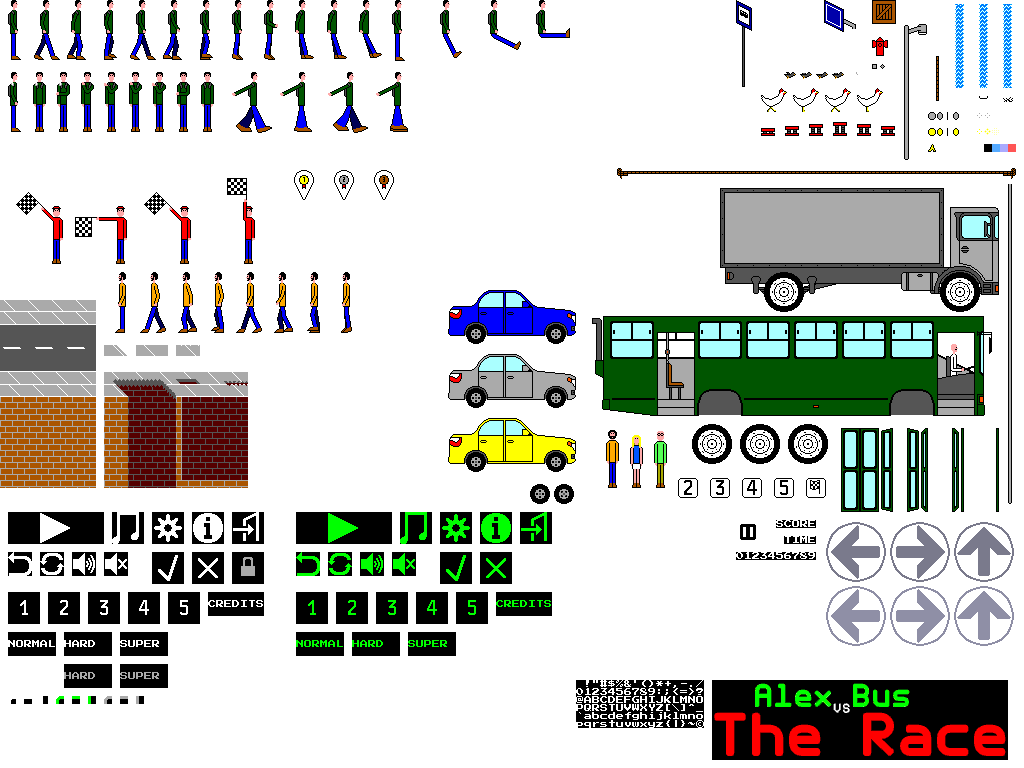
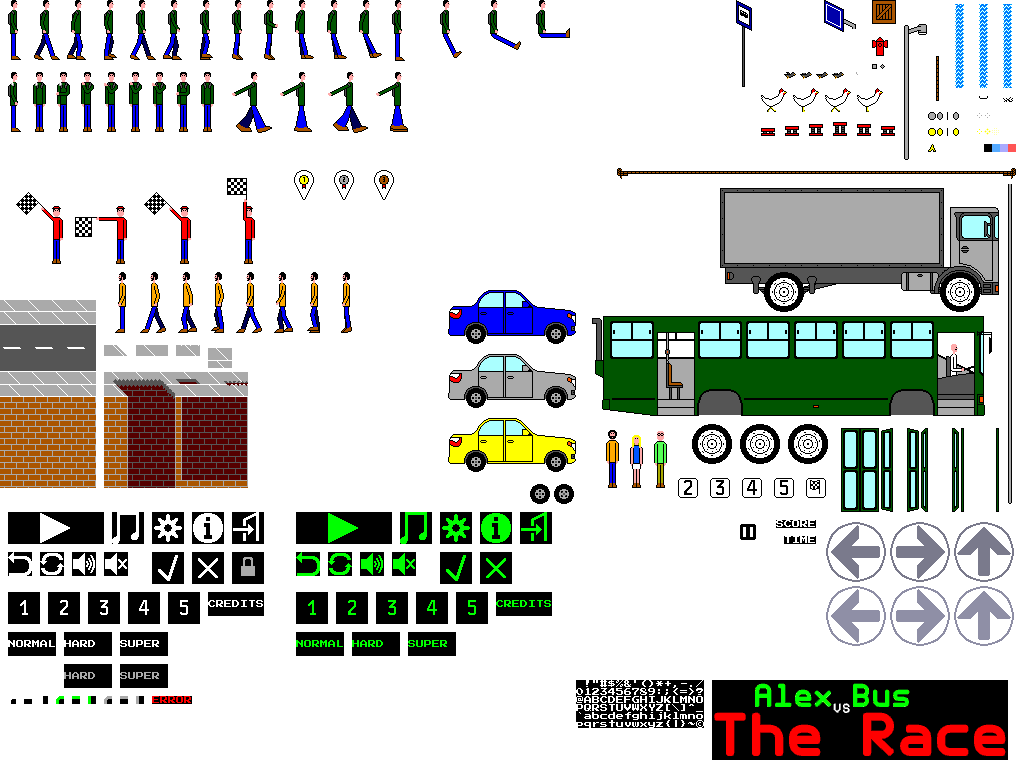
Some visual improvements

diff --git a/core/src/org/alexvsbus/Defs.java b/core/src/org/alexvsbus/Defs.java
@@ -499,8 +499,8 @@ public class Defs {
     static final int SPR_DEEP_HOLE_LEFT_FG = 30;
     static final int SPR_DEEP_HOLE_MIDDLE = 31;
     static final int SPR_DEEP_HOLE_RIGHT = 32;
-    static final int SPR_DIGITS = 33;
-    static final int SPR_DUNG = 34;
+    static final int SPR_DUNG = 33;
+    static final int SPR_ERROR = 34;
     static final int SPR_FLAGMAN = 35;
     static final int SPR_GUSH = 36;
     static final int SPR_GUSH_CRACK = 37;
@@ -520,78 +520,79 @@ public class Defs {
     static final int SPR_PASSAGEWAY_MIDDLE = 51;
     static final int SPR_PASSAGEWAY_RIGHT = 52;
     static final int SPR_PASSAGEWAY_RIGHT_FG = 53;
-    static final int SPR_PAUSE = 54;
-    static final int SPR_PLAYER_STAND = 55;
-    static final int SPR_PLAYER_WALK = 56;
-    static final int SPR_PLAYER_JUMP = 57;
-    static final int SPR_PLAYER_GRABROPE = 58;
-    static final int SPR_PLAYER_THROWBACK = 59;
-    static final int SPR_PLAYER_SLIP = 60;
-    static final int SPR_PLAYER_RUN = 61;
-    static final int SPR_PLAYER_CLEAN_DUNG = 62;
-    static final int SPR_POLE = 63;
-    static final int SPR_ROPE_HORIZONTAL = 64;
-    static final int SPR_ROPE_VERTICAL = 65;
-    static final int SPR_SPRING = 66;
-    static final int SPR_TOUCH_LEFT = 67;
-    static final int SPR_TOUCH_LEFT_HELD = 68;
-    static final int SPR_TOUCH_RIGHT = 69;
-    static final int SPR_TOUCH_RIGHT_HELD = 70;
-    static final int SPR_TOUCH_JUMP = 71;
-    static final int SPR_TOUCH_JUMP_HELD = 72;
-    static final int SPR_TRUCK = 73;
-    static final int SPR_DIALOG_PLAY = 74;
-    static final int SPR_DIALOG_PLAY_SELECTED = 75;
-    static final int SPR_DIALOG_JUKEBOX = 76;
-    static final int SPR_DIALOG_JUKEBOX_SELECTED = 77;
-    static final int SPR_DIALOG_OPTIONS = 78;
-    static final int SPR_DIALOG_OPTIONS_SELECTED = 79;
-    static final int SPR_DIALOG_ABOUT = 80;
-    static final int SPR_DIALOG_ABOUT_SELECTED = 81;
-    static final int SPR_DIALOG_QUIT = 82;
-    static final int SPR_DIALOG_QUIT_SELECTED = 83;
-    static final int SPR_DIALOG_RETURN = 84;
-    static final int SPR_DIALOG_RETURN_SELECTED = 85;
-    static final int SPR_DIALOG_CREDITS = 86;
-    static final int SPR_DIALOG_CREDITS_SELECTED = 87;
-    static final int SPR_DIALOG_RESET = 88;
-    static final int SPR_DIALOG_RESET_SELECTED = 89;
-    static final int SPR_DIALOG_AUDIO_ON = 90;
-    static final int SPR_DIALOG_AUDIO_ON_SELECTED = 91;
-    static final int SPR_DIALOG_AUDIO_OFF = 92;
-    static final int SPR_DIALOG_AUDIO_OFF_SELECTED = 93;
-    static final int SPR_DIALOG_CONFIRM = 94;
-    static final int SPR_DIALOG_CONFIRM_SELECTED = 95;
-    static final int SPR_DIALOG_CANCEL = 96;
-    static final int SPR_DIALOG_CANCEL_SELECTED = 97;
-    static final int SPR_DIALOG_NORMAL = 98;
-    static final int SPR_DIALOG_NORMAL_SELECTED = 99;
-    static final int SPR_DIALOG_HARD = 100;
-    static final int SPR_DIALOG_HARD_SELECTED = 101;
-    static final int SPR_DIALOG_HARD_DISABLED = 102;
-    static final int SPR_DIALOG_SUPER = 103;
-    static final int SPR_DIALOG_SUPER_SELECTED = 104;
-    static final int SPR_DIALOG_SUPER_DISABLED = 105;
-    static final int SPR_DIALOG_1 = 106;
-    static final int SPR_DIALOG_1_SELECTED = 107;
-    static final int SPR_DIALOG_2 = 108;
-    static final int SPR_DIALOG_2_SELECTED = 109;
-    static final int SPR_DIALOG_3 = 110;
-    static final int SPR_DIALOG_3_SELECTED = 111;
-    static final int SPR_DIALOG_4 = 112;
-    static final int SPR_DIALOG_4_SELECTED = 113;
-    static final int SPR_DIALOG_5 = 114;
-    static final int SPR_DIALOG_5_SELECTED = 115;
-    static final int SPR_DIALOG_LOCKED = 116;
-    static final int SPR_DIALOG_BORDER_TOPLEFT = 117;
-    static final int SPR_DIALOG_BORDER_TOPLEFT_SELECTED = 118;
-    static final int SPR_DIALOG_BORDER_TOPLEFT_DISABLED = 119;
-    static final int SPR_DIALOG_BORDER_TOP = 120;
-    static final int SPR_DIALOG_BORDER_TOP_SELECTED = 121;
-    static final int SPR_DIALOG_BORDER_TOP_DISABLED = 122;
-    static final int SPR_DIALOG_BORDER_LEFT = 123;
-    static final int SPR_DIALOG_BORDER_LEFT_SELECTED = 124;
-    static final int SPR_DIALOG_BORDER_LEFT_DISABLED = 125;
+    static final int SPR_PASSAGEWAY_RIGHT_CLOSED = 54;
+    static final int SPR_PAUSE = 55;
+    static final int SPR_PLAYER_STAND = 56;
+    static final int SPR_PLAYER_WALK = 57;
+    static final int SPR_PLAYER_JUMP = 58;
+    static final int SPR_PLAYER_GRABROPE = 59;
+    static final int SPR_PLAYER_THROWBACK = 60;
+    static final int SPR_PLAYER_SLIP = 61;
+    static final int SPR_PLAYER_RUN = 62;
+    static final int SPR_PLAYER_CLEAN_DUNG = 63;
+    static final int SPR_POLE = 64;
+    static final int SPR_ROPE_HORIZONTAL = 65;
+    static final int SPR_ROPE_VERTICAL = 66;
+    static final int SPR_SPRING = 67;
+    static final int SPR_TOUCH_LEFT = 68;
+    static final int SPR_TOUCH_LEFT_HELD = 69;
+    static final int SPR_TOUCH_RIGHT = 70;
+    static final int SPR_TOUCH_RIGHT_HELD = 71;
+    static final int SPR_TOUCH_JUMP = 72;
+    static final int SPR_TOUCH_JUMP_HELD = 73;
+    static final int SPR_TRUCK = 74;
+    static final int SPR_DIALOG_PLAY = 75;
+    static final int SPR_DIALOG_PLAY_SELECTED = 76;
+    static final int SPR_DIALOG_JUKEBOX = 77;
+    static final int SPR_DIALOG_JUKEBOX_SELECTED = 78;
+    static final int SPR_DIALOG_OPTIONS = 79;
+    static final int SPR_DIALOG_OPTIONS_SELECTED = 80;
+    static final int SPR_DIALOG_ABOUT = 81;
+    static final int SPR_DIALOG_ABOUT_SELECTED = 82;
+    static final int SPR_DIALOG_QUIT = 83;
+    static final int SPR_DIALOG_QUIT_SELECTED = 84;
+    static final int SPR_DIALOG_RETURN = 85;
+    static final int SPR_DIALOG_RETURN_SELECTED = 86;
+    static final int SPR_DIALOG_CREDITS = 87;
+    static final int SPR_DIALOG_CREDITS_SELECTED = 88;
+    static final int SPR_DIALOG_RESET = 89;
+    static final int SPR_DIALOG_RESET_SELECTED = 90;
+    static final int SPR_DIALOG_AUDIO_ON = 91;
+    static final int SPR_DIALOG_AUDIO_ON_SELECTED = 92;
+    static final int SPR_DIALOG_AUDIO_OFF = 93;
+    static final int SPR_DIALOG_AUDIO_OFF_SELECTED = 94;
+    static final int SPR_DIALOG_CONFIRM = 95;
+    static final int SPR_DIALOG_CONFIRM_SELECTED = 96;
+    static final int SPR_DIALOG_CANCEL = 97;
+    static final int SPR_DIALOG_CANCEL_SELECTED = 98;
+    static final int SPR_DIALOG_NORMAL = 99;
+    static final int SPR_DIALOG_NORMAL_SELECTED = 100;
+    static final int SPR_DIALOG_HARD = 101;
+    static final int SPR_DIALOG_HARD_SELECTED = 102;
+    static final int SPR_DIALOG_HARD_DISABLED = 103;
+    static final int SPR_DIALOG_SUPER = 104;
+    static final int SPR_DIALOG_SUPER_SELECTED = 105;
+    static final int SPR_DIALOG_SUPER_DISABLED = 106;
+    static final int SPR_DIALOG_1 = 107;
+    static final int SPR_DIALOG_1_SELECTED = 108;
+    static final int SPR_DIALOG_2 = 109;
+    static final int SPR_DIALOG_2_SELECTED = 110;
+    static final int SPR_DIALOG_3 = 111;
+    static final int SPR_DIALOG_3_SELECTED = 112;
+    static final int SPR_DIALOG_4 = 113;
+    static final int SPR_DIALOG_4_SELECTED = 114;
+    static final int SPR_DIALOG_5 = 115;
+    static final int SPR_DIALOG_5_SELECTED = 116;
+    static final int SPR_DIALOG_LOCKED = 117;
+    static final int SPR_DIALOG_BORDER_TOPLEFT = 118;
+    static final int SPR_DIALOG_BORDER_TOPLEFT_SELECTED = 119;
+    static final int SPR_DIALOG_BORDER_TOPLEFT_DISABLED = 120;
+    static final int SPR_DIALOG_BORDER_TOP = 121;
+    static final int SPR_DIALOG_BORDER_TOP_SELECTED = 122;
+    static final int SPR_DIALOG_BORDER_TOP_DISABLED = 123;
+    static final int SPR_DIALOG_BORDER_LEFT = 124;
+    static final int SPR_DIALOG_BORDER_LEFT_SELECTED = 125;
+    static final int SPR_DIALOG_BORDER_LEFT_DISABLED = 126;
 
     static final int LOGO_WIDTH = 296;
 
@@ -840,8 +841,8 @@ public class Defs {
         104,  344,  24,  16,  //SPR_DEEP_HOLE_LEFT_FG
         128,  368,  24,  120, //SPR_DEEP_HOLE_MIDDLE
         152,  368,  24,  120, //SPR_DEEP_HOLE_RIGHT
-        736,  552,  8,   8,   //SPR_DIGITS
         856,  72,   8,   8,   //SPR_DUNG
+        152,  696,  40,  8,   //SPR_ERROR
         0,    176,  64,  88,  //SPR_FLAGMAN
         952,  0,    24,  88,  //SPR_GUSH
         1000, 96,   16,  8,   //SPR_GUSH_CRACK
@@ -861,6 +862,7 @@ public class Defs {
         200,  368,  24,  120, //SPR_PASSAGEWAY_MIDDLE
         224,  368,  24,  120, //SPR_PASSAGEWAY_RIGHT
         176,  344,  24,  16,  //SPR_PASSAGEWAY_RIGHT_FG
+        208,  344,  24,  24,  //SPR_PASSAGEWAY_RIGHT_CLOSED
         736,  520,  32,  32,  //SPR_PAUSE
         0,    0,    32,  64,  //SPR_PLAYER_STAND
         32,   0,    32,  64,  //SPR_PLAYER_WALK

diff --git a/core/src/org/alexvsbus/Renderer.java b/core/src/org/alexvsbus/Renderer.java
@@ -184,8 +184,12 @@ class Renderer {
                 //Right
                 x = ctx.holes[i].x + ((w - 1) * LEVEL_BLOCK_SIZE);
                 spr = (isDeep ? SPR_DEEP_HOLE_RIGHT : SPR_PASSAGEWAY_RIGHT);
-                if (!isDeep && !exitOpened) spr = SPR_PASSAGEWAY_MIDDLE;
                 drawSprite(spr, x, y);
+
+                if (!isDeep && !exitOpened) {
+                    spr = SPR_PASSAGEWAY_RIGHT_CLOSED;
+                    drawSprite(spr, x, y);
+                }
             }
         }
 
@@ -562,6 +566,10 @@ class Renderer {
 
             drawDialogBorder(x - 16, y - 16, w + 4, h + 4, false, false);
             drawText(dialogCtx.text, x, y);
+
+            if (dialogCtx.stack[dialogCtx.stackSize - 1].type == DLG_ERROR) {
+                drawSprite(SPR_ERROR, x, y);
+            }
         }
 
         for (i = 0; i < dialogCtx.numItems; i++) {
@@ -771,7 +779,7 @@ class Renderer {
         }
 
         for (i = numDigits - 1; i >= 0; i--) {
-            drawSpriteFrame(SPR_DIGITS, x, y, digitsTemp[i]);
+            drawSpritePart(SPR_CHARSET, x, y, digitsTemp[i] * 8, 8, 8, 8);
             x += 8;
         }
     }

diff --git a/core/src/org/alexvsbus/Dialogs.java b/core/src/org/alexvsbus/Dialogs.java
@@ -521,7 +521,10 @@ class Dialogs {
         closeAll();
         open(DLG_ERROR);
 
-        ctx.text = "ERROR\n\n" + msg;
+        //Move the text downwards by two lines because the word "ERROR" is drawn
+        //separately by Render.java on the first line
+        ctx.text = "\n\n" + msg;
+
         ctx.textOffsetX = -40;
         ctx.textOffsetY = -6;
         ctx.textWidth = 40;
@@ -541,14 +544,14 @@ class Dialogs {
                 "\177 2021-2022 M-374 LX\n" + // \177 = copyright symbol
                 "\n" +
                 "Version\n" +
-                VERSION + "\n" +
+                " " + VERSION + "\n" +
                 "\n" +
                 "Repository\n" +
-                REPOSITORY + "\n" +
+                " " + REPOSITORY + "\n" +
                 "\n" +
                 "Licenses\n" +
-                "The code is under GNU GPLv3, while the\n" +
-                "assets are under CC BY-SA 4.0.";
+                " The code is under GNU GPLv3, while the\n" +
+                " assets are under CC BY-SA 4.0.";
 
             ctx.textOffsetX = -47;
             ctx.textOffsetY = -14;
